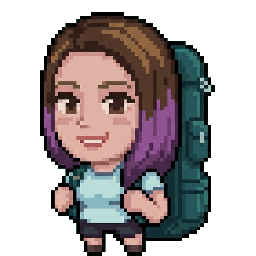
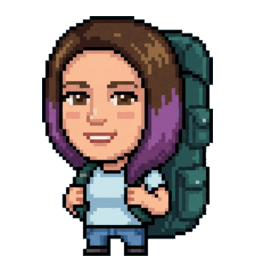
Speaker sprites: refresh from the Pier, Irina included (#77)
The keep-list that held Irina's hand-cut art is empty now; her roster sprite
is her current Cloud Card, and Chris Oliver, Madison Sites and Andrey
Novikov pick up their re-made cards. The script walks the characters API's
pages rather than its first fifty.

diff --git a/scripts/fetch-speaker-sprites.js b/scripts/fetch-speaker-sprites.js
@@ -26,15 +26,24 @@ const API = "https://clouds.sfruby.com/api/characters?limit=50";
 const NAME_ALIASES = { "Vova Dementyev": "Vladimir Dementyev" };
 
 // People who prefer the sprite already in the repo. Their character stays on
-// clouds.sfruby.com; the site keeps the hand-cut art.
-const KEEP_EXISTING = ["Irina Nazarova"];
+// clouds.sfruby.com; the site keeps the hand-cut art. Empty since Sep 2026.
+const KEEP_EXISTING = [];
 
 const dryRun = process.argv.includes("--dry-run");
 const publicDir = fileURLToPath(new URL("../public/", import.meta.url));
 
-const res = await fetch(API, { signal: AbortSignal.timeout(20_000) });
-if (!res.ok) throw new Error(`characters API: HTTP ${res.status}`);
-const { characters } = await res.json();
+// The API pages with next_cursor; walk every page so an early card is found.
+const characters = [];
+let cursor = null;
+do {
+  const res = await fetch(API + (cursor ? `&cursor=${cursor}` : ""), {
+    signal: AbortSignal.timeout(20_000),
+  });
+  if (!res.ok) throw new Error(`characters API: HTTP ${res.status}`);
+  const page = await res.json();
+  characters.push(...(page.characters ?? []));
+  cursor = page.next_cursor ?? null;
+} while (cursor);
 
 const keepExisting = new Set(KEEP_EXISTING.map(speakerKey));
 // Only speakers already carrying a `pixel` path are rewritten: the path in
